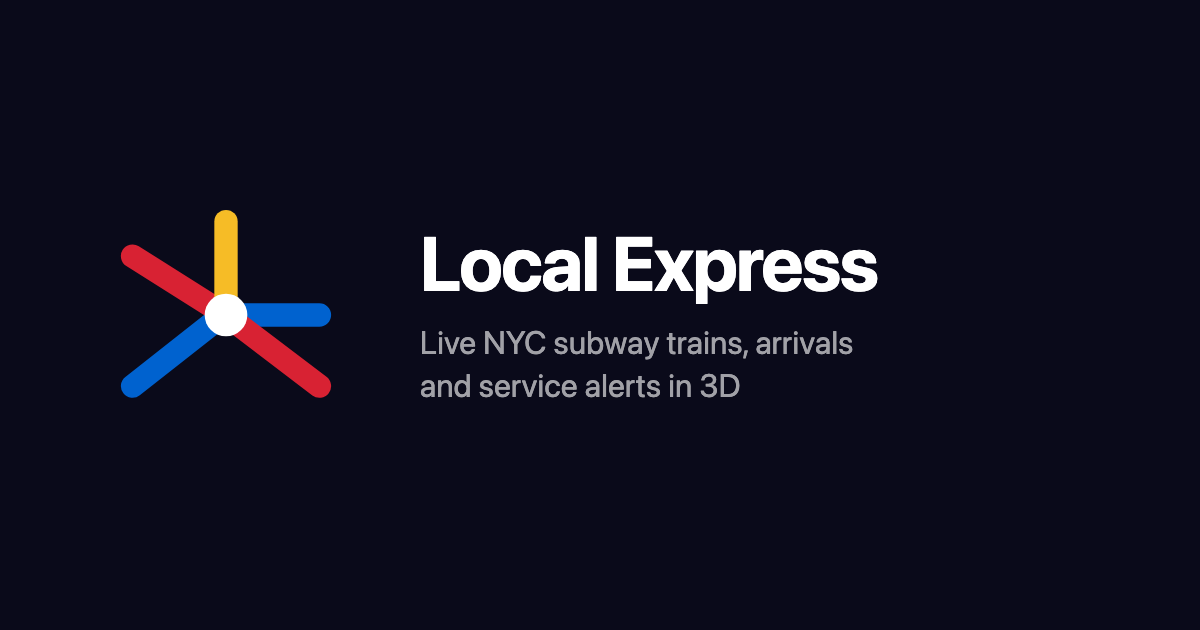
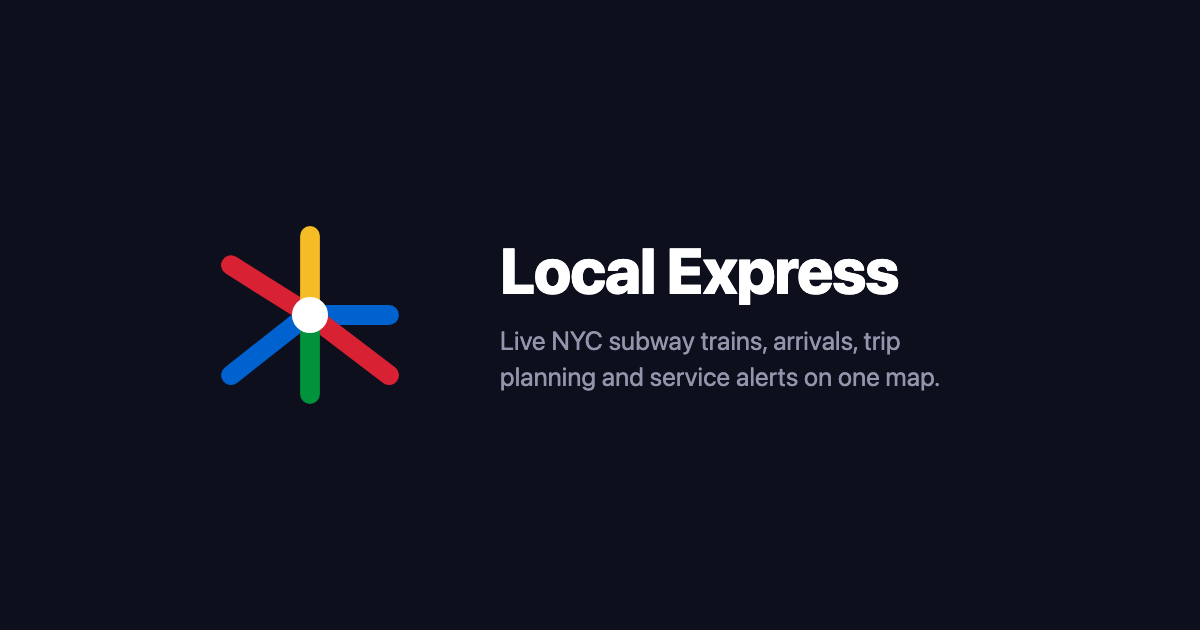
fix: update OG card and meta tags to reflect current product (#75)
The OG image still said 'in 3D' from before Three.js was removed, and
the description omitted trip planning. Updated both the image subtitle
and the og:description and og:image:alt meta tags to match what the
product actually does now.

Changed region(s): [[0.0925, 0.3317, 0.7708, 0.6333], [0.3392, 0.3619, 0.7708, 0.4825]]

diff --git a/index.html b/index.html
@@ -28,12 +28,12 @@
     <meta property="og:type" content="website" />
     <meta property="og:site_name" content="Local Express" />
     <meta property="og:title" content="Local Express — Live NYC Subway Map" />
-    <meta property="og:description" content="Live NYC subway trains, arrivals and service alerts, system-wide." />
+    <meta property="og:description" content="Live NYC subway trains, arrivals, trip planning and service alerts on one map." />
     <meta property="og:url" content="https://localexpress.nyc/" />
     <meta property="og:image" content="https://localexpress.nyc/og-card.png" />
     <meta property="og:image:width" content="1200" />
     <meta property="og:image:height" content="630" />
-    <meta property="og:image:alt" content="Local Express — crossing subway route lines meeting at an interchange." />
+    <meta property="og:image:alt" content="Local Express logo with the tagline: live NYC subway trains, arrivals, trip planning and service alerts on one map." />
     <meta name="twitter:card" content="summary_large_image" />
 
     <link rel="stylesheet" href="/src/styles.css" />
